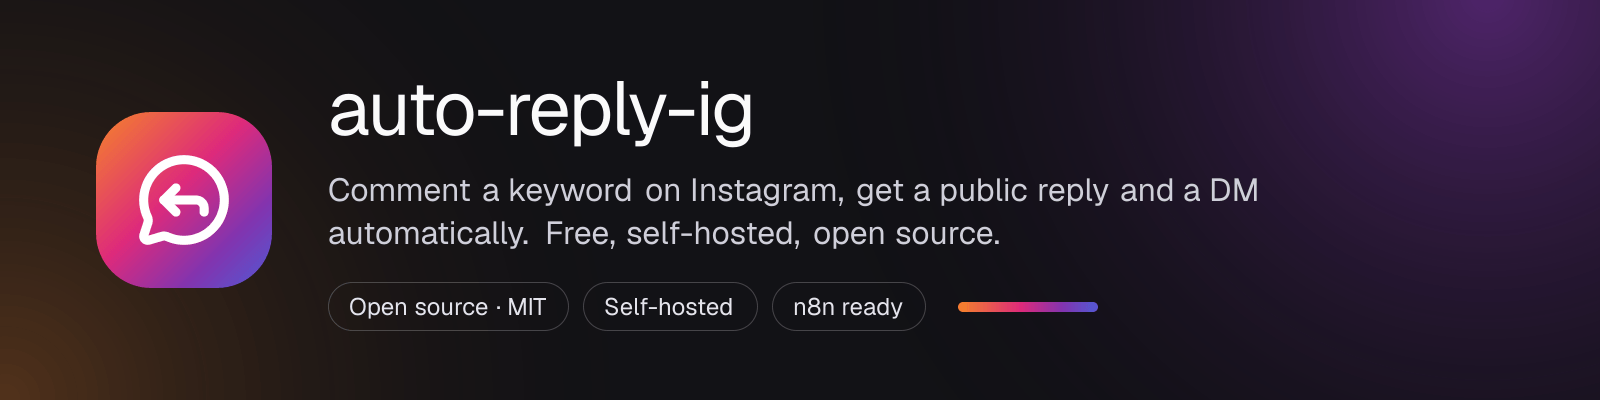
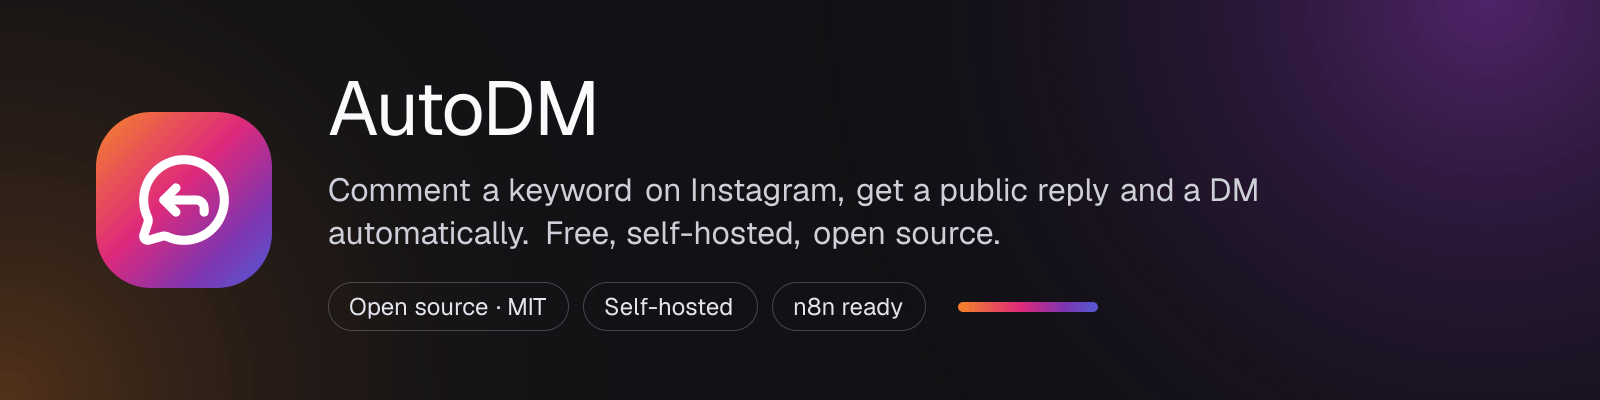
feat: rename the project to AutoDM (slug: autodm) (#76)
Display name AutoDM everywhere; slug autodm for the package, release-please, Docker image (ghcr.io/ilramdhan/autodm) and REPO_URL. Existing installs keep working: session cookie, JWT issuer/audience, HKDF salt, API key prefix, settings keys, env vars and migrations are unchanged. The service worker drops caches under the legacy prefix.

Closes #63

Changed region(s): [[0.1875, 0.18, 0.4688, 0.39]]

diff --git a/public/sw.js b/public/sw.js
@@ -1,5 +1,5 @@
 /*
- * auto-reply-ig service worker: an offline fallback page, nothing more.
+ * AutoDM service worker: an offline fallback page, nothing more.
  *
  * - Precaches /offline (a static page with no user data), the assets it needs to render, and the
  *   app icons.
@@ -10,8 +10,10 @@
  *
  * Bump VERSION when this file or the offline page changes so old caches are dropped on activate.
  */
-const VERSION = "v1";
-const CACHE_PREFIX = "auto-reply-ig-";
+const VERSION = "v2";
+const CACHE_PREFIX = "autodm-";
+/** Caches from before the rename (auto-reply-ig -> AutoDM); always deleted on activate. */
+const LEGACY_CACHE_PREFIXES = ["auto-reply-ig-"];
 const CACHE = `${CACHE_PREFIX}offline-${VERSION}`;
 const OFFLINE_URL = "/offline";
 const STATIC_ASSETS = [
@@ -49,7 +51,13 @@ self.addEventListener("activate", (event) => {
     (async () => {
       const keys = await caches.keys();
       await Promise.all(
-        keys.filter((key) => key.startsWith(CACHE_PREFIX) && key !== CACHE).map((key) => caches.delete(key)),
+        keys
+          .filter(
+            (key) =>
+              (key.startsWith(CACHE_PREFIX) && key !== CACHE) ||
+              LEGACY_CACHE_PREFIXES.some((prefix) => key.startsWith(prefix)),
+          )
+          .map((key) => caches.delete(key)),
       );
       if (self.registration.navigationPreload) await self.registration.navigationPreload.enable();
       await self.clients.claim();

diff --git a/src/app/(dashboard)/settings/about-tab.tsx b/src/app/(dashboard)/settings/about-tab.tsx
@@ -197,7 +197,7 @@ function WhatsNewCard({ check, timeZone }: { check: UpdateCheck; timeZone: strin
         <CardTitle role="heading" aria-level={2}>
           What&apos;s new
         </CardTitle>
-        <CardDescription>Recent releases of auto-reply-ig.</CardDescription>
+        <CardDescription>Recent releases of AutoDM.</CardDescription>
       </CardHeader>
       <CardContent className="grid gap-6">
         {releases.length === 0 ? (
@@ -313,9 +313,7 @@ function CommunityCard() {
         <CardTitle role="heading" aria-level={2}>
           Community &amp; support
         </CardTitle>
-        <CardDescription>
-          auto-reply-ig is open source. Get help, report issues or contribute.
-        </CardDescription>
+        <CardDescription>AutoDM is open source. Get help, report issues or contribute.</CardDescription>
       </CardHeader>
       <CardContent>
         <ul className="grid grid-cols-1 gap-2 sm:grid-cols-2">

diff --git a/src/lib/seo.ts b/src/lib/seo.ts
@@ -4,13 +4,15 @@ import { APP_NAME, REPO_URL } from "@/lib/constants";
 /** Copy shared by page metadata, the Open Graph image, the web app manifest and JSON-LD. */
 export const SITE = {
   name: APP_NAME,
-  shortName: "AutoReply",
+  shortName: "AutoDM",
   headline: "Turn Instagram comments into replies and DMs, automatically",
   tagline: "Open-source, self-hosted comment-to-DM automation for Instagram.",
   description:
     "Open-source Instagram comment-to-DM automation: keyword rules per post, public replies and private-reply DMs. Self-hosted on Vercel + Supabase or Docker, n8n ready.",
   keywords: [
+    "autodm",
     "instagram auto dm",
+    "auto dm instagram",
     "instagram comment to dm",
     "comment to dm",
     "instagram auto reply",

diff --git a/tests/updates.test.ts b/tests/updates.test.ts
@@ -60,11 +60,11 @@ describe("checkForUpdates", () => {
     const r = await checkForUpdates();
     expect(r.ok && r.updateAvailable).toBe(true);
     const [url, init] = fetchMock.mock.calls[0] as unknown as [string, RequestInit & { next?: unknown }];
-    expect(url).toBe("https://api.github.com/repos/ilramdhan/auto-reply-ig/releases?per_page=5");
+    expect(url).toBe("https://api.github.com/repos/ilramdhan/autodm/releases?per_page=5");
     expect(init.headers).toMatchObject({
       Accept: "application/vnd.github+json",
       "X-GitHub-Api-Version": "2022-11-28",
-      "User-Agent": "auto-reply-ig",
+      "User-Agent": "autodm",
     });
     expect(init.next).toEqual({ revalidate: 21600 });
     expect(init.signal).toBeInstanceOf(AbortSignal);

diff --git a/src/server/crypto.ts b/src/server/crypto.ts
@@ -2,7 +2,11 @@ import "server-only";
 import { createCipheriv, createDecipheriv, hkdfSync, randomBytes, timingSafeEqual } from "node:crypto";
 import { env } from "@/env";
 
-/** Derive purpose-specific 32-byte keys from APP_SECRET (HKDF-SHA256). */
+/**
+ * Derive purpose-specific 32-byte keys from APP_SECRET (HKDF-SHA256).
+ * The salt is the project's legacy name (renamed to AutoDM); never change it, or every stored secret
+ * and access token becomes undecryptable.
+ */
 export function deriveKey(purpose: "session" | "secrets"): Buffer {
   return Buffer.from(hkdfSync("sha256", env().APP_SECRET, "auto-reply-ig", `v1:${purpose}`, 32));
 }

diff --git a/scripts/brand/banner.tsx b/scripts/brand/banner.tsx
@@ -40,7 +40,7 @@ const sharp = requireFromNext("sharp") as SharpFactory;
 const BANNER = { width: 1600, height: 400 } as const;
 const SOCIAL = { width: 1280, height: 640 } as const;
 
-const NAME = "auto-reply-ig";
+const NAME = "AutoDM";
 const PITCH =
   "Comment a keyword on Instagram, get a public reply and a DM automatically. Free, self-hosted, open source.";
 const CHIPS = ["Open source · MIT", "Self-hosted", "n8n ready"] as const;

diff --git a/src/server/updates.ts b/src/server/updates.ts
@@ -131,7 +131,7 @@ export const checkForUpdates = cache(async (): Promise<UpdateCheck> => {
       headers: {
         Accept: "application/vnd.github+json",
         "X-GitHub-Api-Version": "2022-11-28",
-        "User-Agent": "auto-reply-ig",
+        "User-Agent": "autodm",
       },
       signal: AbortSignal.timeout(TIMEOUT_MS),
       next: { revalidate: RELEASES_REVALIDATE_SECONDS },

diff --git a/src/app/(dashboard)/analytics/export/route.ts b/src/app/(dashboard)/analytics/export/route.ts
@@ -45,7 +45,7 @@ export async function GET(req: NextRequest) {
         r.lastActivity,
       ]),
     ]);
-    const filename = `auto-reply-ig-${filters.group}-${range.fromYmd}_${range.toYmd}.csv`;
+    const filename = `autodm-${filters.group}-${range.fromYmd}_${range.toYmd}.csv`;
     return new NextResponse(csv, {
       headers: {
         "Content-Type": "text/csv; charset=utf-8",

diff --git a/src/app/(dashboard)/settings/n8n-workflow/route.ts b/src/app/(dashboard)/settings/n8n-workflow/route.ts
@@ -12,7 +12,7 @@ export async function GET() {
   return new NextResponse(JSON.stringify(workflow, null, 2), {
     headers: {
       "Content-Type": "application/json; charset=utf-8",
-      "Content-Disposition": 'attachment; filename="auto-reply-ig.n8n.json"',
+      "Content-Disposition": 'attachment; filename="autodm.n8n.json"',
       "Cache-Control": "no-store",
     },
   });

diff --git a/src/server/auth/session-token.ts b/src/server/auth/session-token.ts
@@ -8,6 +8,7 @@ import { z } from "zod";
  */
 export const SESSION_COOKIE = "ard_session";
 export const SESSION_TTL_SECONDS = 7 * 24 * 60 * 60;
+// Legacy name (project was renamed to AutoDM). Do not change: existing sessions would be rejected.
 const ISSUER = "auto-reply-ig";
 const AUDIENCE = "auto-reply-ig:dashboard";
 

diff --git a/src/lib/constants.ts b/src/lib/constants.ts
@@ -1,5 +1,5 @@
-export const APP_NAME = "auto-reply-ig";
-export const REPO_URL = "https://github.com/ilramdhan/auto-reply-ig";
+export const APP_NAME = "AutoDM";
+export const REPO_URL = "https://github.com/ilramdhan/autodm";
 
 /** Meta limits (Instagram API with Instagram Login). */
 export const DM_MAX_CHARS = 1000;

diff --git a/src/server/n8n/workflow.test.ts b/src/server/n8n/workflow.test.ts
@@ -2,7 +2,7 @@ import { describe, expect, it, vi } from "vitest";
 
 vi.mock("server-only", () => ({}));
 
-import raw from "../../../n8n/auto-reply-ig.workflow.json";
+import raw from "../../../n8n/autodm.workflow.json";
 import { APP_URL_PLACEHOLDER, buildN8nWorkflow } from "./workflow";
 
 type Wf = {
